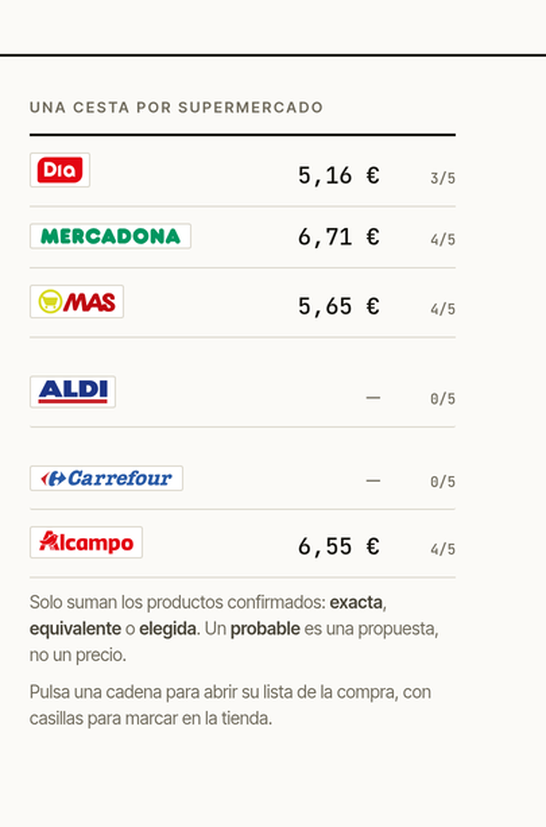
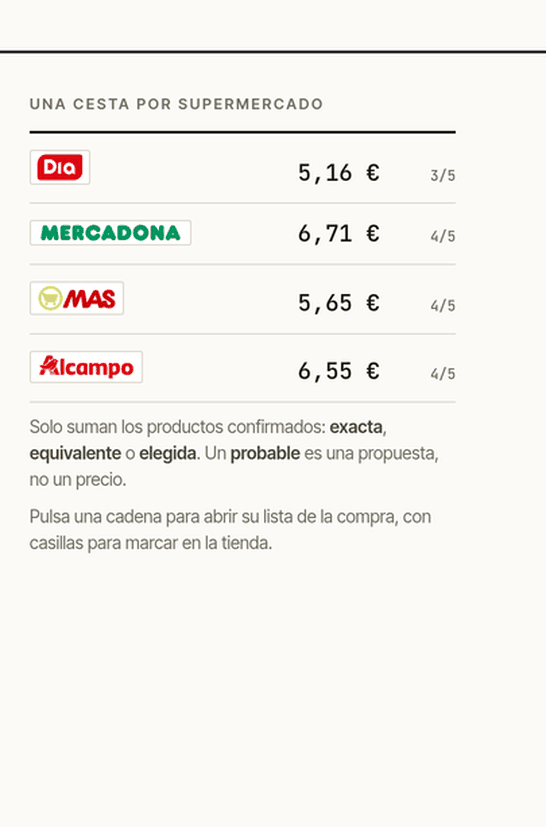
feat(ui): el logotipo de la app y su versión para el README
- web/logo.png: el logotipo recortado a su dibujo (icono + nombre, sin las insignias de
  cadena) y con el fondo casi blanco hecho transparente por relleno desde el borde, así que
  se apoya en el papel de la interfaz sin recuadro. Va en la cabecera, arriba a la izquierda,
  y sustituye al wordmark de texto.
- web/favicon.png: el icono del logotipo, 64 px.
- docs/web/logo.webp: la versión completa, centrada al principio del README.
- Las capturas se rehacen con la cabecera nueva y se cuantizan (556 KB en total, antes 1,2 MB).

Refs: S1

diff --git a/web/styles.css b/web/styles.css
@@ -73,10 +73,11 @@ button{font:inherit;color:inherit}
 /* ---------- cabecera de periódico ---------- */
 .masthead{border-bottom:2px solid var(--ink);background:var(--paper)}
 .masthead-row{
-  display:flex;align-items:baseline;justify-content:space-between;gap:var(--sp-4);
+  display:flex;align-items:center;justify-content:space-between;gap:var(--sp-4);
   padding-top:var(--sp-4);padding-bottom:var(--sp-3);border-bottom:1px solid var(--rule)}
-.name{font:700 15px/1 var(--sans);letter-spacing:.2em;text-transform:uppercase}
-.dot-end{color:var(--tomato)}
+.name{display:flex;align-items:center}
+.name img{display:block;height:32px;width:auto}
+@media (max-width:560px){.name img{height:24px}}
 .meta{font:500 11px/1.4 var(--num);color:var(--ink-3);letter-spacing:.02em}
 .engine{font:500 11px/1.4 var(--num);color:var(--ink-3)}
 .engine.bad{color:var(--tomato)}

diff --git a/web/index.html b/web/index.html
@@ -5,6 +5,7 @@
 <meta name="viewport" content="width=device-width, initial-scale=1">
 <meta name="theme-color" content="#FBFAF7">
 <title>La lista · una compra, cada supermercado</title>
+<link rel="icon" href="/favicon.png" type="image/png">
 <link rel="stylesheet" href="styles.css">
 </head>
 <body>
@@ -12,7 +13,9 @@
 
 <header class="masthead">
   <div class="wrap masthead-row">
-    <p class="name">La lista<span class="dot-end">.</span></p>
+    <p class="name">
+      <img src="/logo.png" alt="shopping-list-comparator" width="191" height="32">
+    </p>
     <p class="meta" id="meta">—</p>
     <p class="engine" id="engine" role="status"></p>
   </div>

diff --git a/cmd/web/server.go b/cmd/web/server.go
@@ -78,7 +78,7 @@ func (s *server) handler() http.Handler {
 		files := http.FileServerFS(s.o.assets)
 		// Only the embedded paths are served: a catch-all GET would shadow the 405 that
 		// ServeMux answers for a wrong verb on /api/items.
-		for _, path := range []string{"/{$}", "/styles.css", "/app.js", "/logos.svg", "/fonts/{name}"} {
+		for _, path := range []string{"/{$}", "/styles.css", "/app.js", "/logos.svg", "/logo.png", "/favicon.png", "/fonts/{name}"} {
 			mux.Handle("GET "+path, files)
 		}
 	}

diff --git a/web/assets.go b/web/assets.go
@@ -5,6 +5,6 @@ package web
 
 import "embed"
 
-//go:embed index.html styles.css app.js logos.svg
+//go:embed index.html styles.css app.js logos.svg logo.png favicon.png
 //go:embed fonts/*.woff2
 var FS embed.FS

diff --git a/README.md b/README.md
@@ -1,3 +1,7 @@
+<p align="center">
+  <img src="docs/web/logo.webp" alt="shopping-list-comparator" width="440">
+</p>
+
 # shopping-list-comparator
 
 **Una lista de la compra única que se convierte en una lista por supermercado.** Escribes un producto,
@@ -67,7 +71,7 @@ marcadas son las únicas que se consultan, las únicas que tienen celda en cada 
 para las que se genera cesta. Si una cadena no está en tu ciudad, o no te convence, quítala: **no
 gastará su cuota** ni aparecerá en la comparativa.
 
-![Tus supermercados: seis de siete seleccionados, LIDL fuera](docs/web/paso-supermercados.png)
+![Tus supermercados: cuatro de siete seleccionados; ALDI, LIDL y Carrefour fuera](docs/web/paso-supermercados.png)
 
 La selección se guarda con la lista (en `data/list.json` o en el volumen), así que sobrevive a
 reinicios y a `docker compose up --build`. Debe quedar al menos una. Si vuelves a activar una cadena,
@@ -222,7 +226,8 @@ encima de cada fila y filetes de 1 px separando las cadenas, como una tabla de p
 dice con una palabra; el color solo tiñe esa palabra y cada cadena lleva su marca.
 
 Sin CDN y sin build: las dos fuentes (Inter Tight variable y JetBrains Mono, subset latin + latin-ext)
-están en `web/fonts/` y se embeben en el binario, 168 KB en total; los siete logos oficiales están en
+están en `web/fonts/` y se embeben en el binario, 168 KB en total; el logotipo (`web/logo.png`, con el
+fondo recortado) y su favicon van también dentro; y los siete logos de cadena están en
 `web/logos.svg`, recortados a su propio dibujo y reutilizados de multisuper. Las animaciones son
 transiciones CSS de 100–150 ms sobre propiedades concretas, `scale(0.96)` al pulsar y nada cuando el
 sistema pide movimiento reducido.
@@ -235,7 +240,7 @@ internal/identity/    la escalera de equivalencia + brands.json + los tests del 
 internal/catalog/     cliente de POST /api/search (multisuper), céntimos, €/unidad y selección de cadenas
 internal/store/       la lista en un JSON con escritura atómica
 internal/resolve/     cola en segundo plano, base automática, alternativas
-web/                  index.html, styles.css, app.js, logos.svg y las fuentes (todo embebido)
+web/                  index.html, styles.css, app.js, logo.png, favicon.png, logos.svg y fuentes
 Dockerfile            imagen de dos etapas, usuario sin privilegios, lista en /data
 docker-compose.yml    la lista con su volumen y el motor del host
 docs/despliegue.md    Docker, copias, LAN, actualización y problemas
